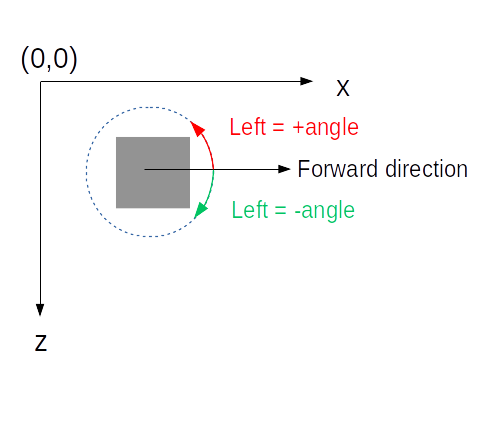
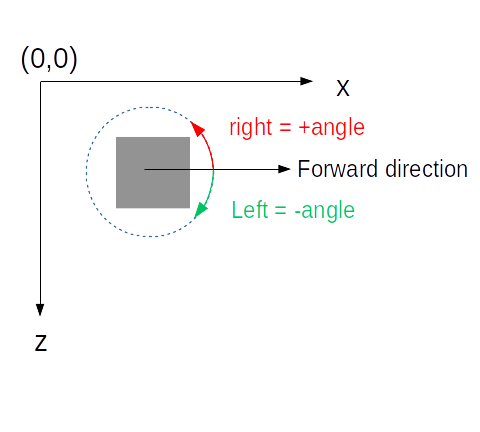
fix'd (again)

Changed region(s): [[0.4688, 0.2708, 0.7812, 0.331]]

diff --git a/src/Robot/Constants.h b/src/Robot/Constants.h
@@ -14,7 +14,7 @@ namespace MotorConstant
 
 namespace RobotConstant {
     // half the robot width, from one wheel to the center
-    const float botHalfWidth = .818f;
+    const float botHalfWidth = .4085f;
 
     // width of the robot (from one wheel to the other):
     const float trackWidth = botHalfWidth*2.0f;

diff --git a/doc/about_simulation.md b/doc/about_simulation.md
@@ -78,43 +78,77 @@ gives you the time (in second) required to move by *x* unit of distance at the g
 
 ## Turning
 
-Turning is a bit tricky. Here, I'm assuming that what you are looking for is actually a rotation where the center (the position of the robot) does not actually change:
+Turning is a bit tricky. 
+
+## First option
+
+Here, I'm assuming that what you want is a rotation around a wheel:
+
+![](im/rot2.png)
+
+You can achieve that by only turning one wheel:
+
+```c
+OnFwd(OUT_B,80) // turning left wheel make the robot turn right
+wait 257
+Off(OUT_B)
+```
+
+Here, time, *t*, is the key ingredient to arrive to the right angle, *α* (given in degree). It is given by the following formula : 
+
+![](im/talphap1.png)
+ 
+where *H* is the half width of the robot (currently 0.4085).
+Sadly, due to the precision of the hardware and the values, the angle is not exactly what you expect. 
+
+Another way is to set an expected rotation of the wheel and wait for the wheel to actually get to that point.
+That can be achieved with the `RotateMotor()` macro (see [there](../tests/simpleturn.nbc)):
+
+```
+RotateMotorEx(OUT_B, 80, 410)
+```
+
+Of course, the wheel rotation ![](im/alpha_w.png) (in degree) does not correspond to the robot rotation, *α*. Again, there is a formula, being 
+
+![equation](im/alpha_weq1.png)
+ 
+This way seems a little bit more precise (in fact, it adjusts the value by doing a few control and error cycles).
+
+
+### Second option
+
+Here, I'm assuming that what you are looking for is actually a rotation where the center (the position of the robot) does not actually change:
 
 ![](im/rot.png)
  
-One way to do it is to give a reverse power value to both motors (see [there](../tests/simpleturn.nbc)):
+One way to do it is to give a reverse power value to both motors (see [there](../tests/simpleturn2.nbc)):
 
 ```c
 OnFwd(OUT_B,20) // p=20
 OnFwd(OUT_C,-20) // works as well with `OnRev(OUT_C,20)`
-wait 1028 // t=1.028 s
+wait 513 // t=0.513 s
 ```
 
 By setting the left motor forward and right motor backward, one turn right (so the rotation angle gets negative).
 
-Here, time, *t*, is the key ingredient to arrive to the right angle, *α* (given in degree). It is given by the following formula : 
+Again, there is the `wait` option, which requires to compute time:
 
 ![](im/talphap.png)
 
-where *H* is the half width of the robot (currently 0.818).
-Sadly, due to the precision of the hardware and the values, the angle is not exactly what you expect. Except if you move veeeeeeeery slowly.
+But the same remark concerning the time precision apply.
 
-Another way is to set an expected rotation of the wheel and wait for the wheel to actually get to that point.
-That can be achieved with the `RotateMotorEx()` macro (see [there](../tests/simpleturn2.nbc)):
+Another way can be achieved with the `RotateMotorEx()` macro (see [there](../tests/simpleturn2.nbc)):
 
 ```
 RotateMotorEx(
     OUT_BC, 
     80,   /* output power */
-    410,  /* wheel rotation */ 
-    -100, /*-100 for a right rotation, +100 for left */ 
+    205,  /* wheel rotation */ 
+    -100, /* -100 for a right rotation, +100 for left */ 
     1,    /* should the two motor be synchronyzed ? Yes */ 
     1     /* should the motor brake at the end ? Yes */)
 ```
 
-Of course, the wheel rotation ![](im/alpha_w.png) (in degree) does not correspond to the robot rotation, *α*. Again, there is a formula, being 
+Again, there is a formula, being 
 
 ![equation](im/alpha_weq.png)
- 
-This way seems a little bit more precise (in fact, it adjusts the value by doing a few control and error cycles).
-
